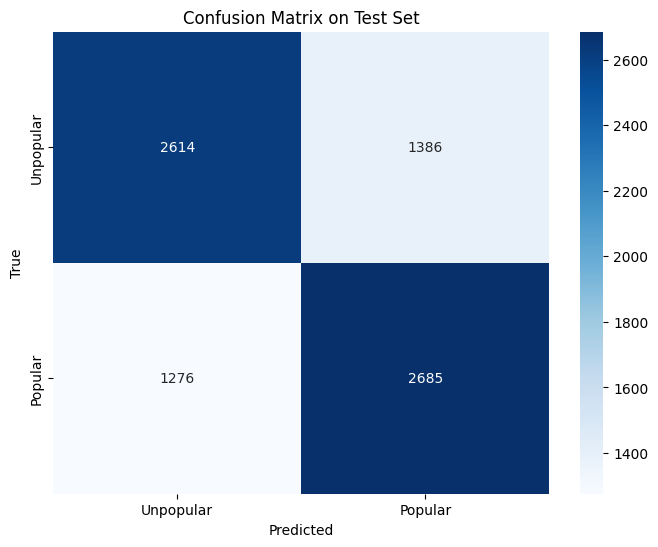
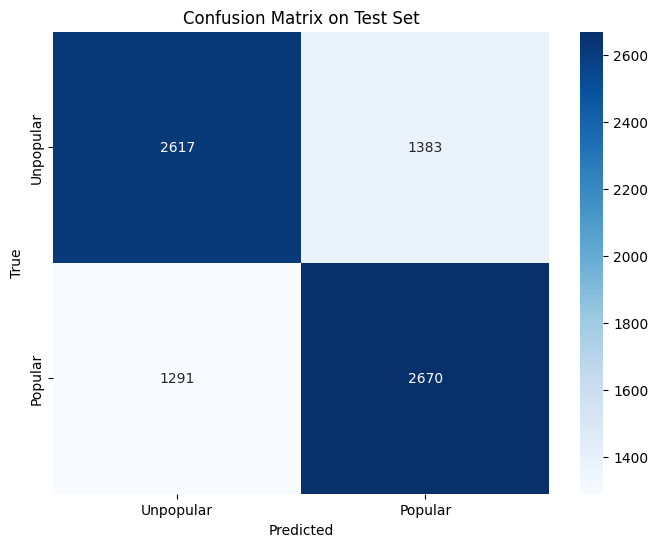
refactor: update DVC lock and metrics, enhance Optuna study with SQLite storage

diff --git a/mlops_equipo_63/Optuna_Study.py b/mlops_equipo_63/Optuna_Study.py
@@ -203,12 +203,27 @@ def run_optuna_study(
         return mean_target
 
     # create a seeded sampler (random_state) so Optuna runs are reproducible
+    # URL de storage para que Optuna guarde el estudio en SQLite
+    storage_url = "sqlite:///mlruns/optuna.db"
+
+    # create a seeded sampler (random_state) so Optuna runs are reproducible
     try:
         sampler = optuna.samplers.TPESampler(seed=random_state)
-        study = optuna.create_study(direction="maximize", study_name=study_name, sampler=sampler)
+        study = optuna.create_study(
+            direction="maximize",
+            study_name=study_name,
+            sampler=sampler,
+            storage=storage_url,
+            load_if_exists=True,
+        )
     except Exception:
         # fallback if sampler creation fails for any reason
-        study = optuna.create_study(direction="maximize", study_name=study_name)
+        study = optuna.create_study(
+            direction="maximize",
+            study_name=study_name,
+            storage=storage_url,
+            load_if_exists=True,
+        )
     
     callbacks = []
     if mlflow_callback is not None:
